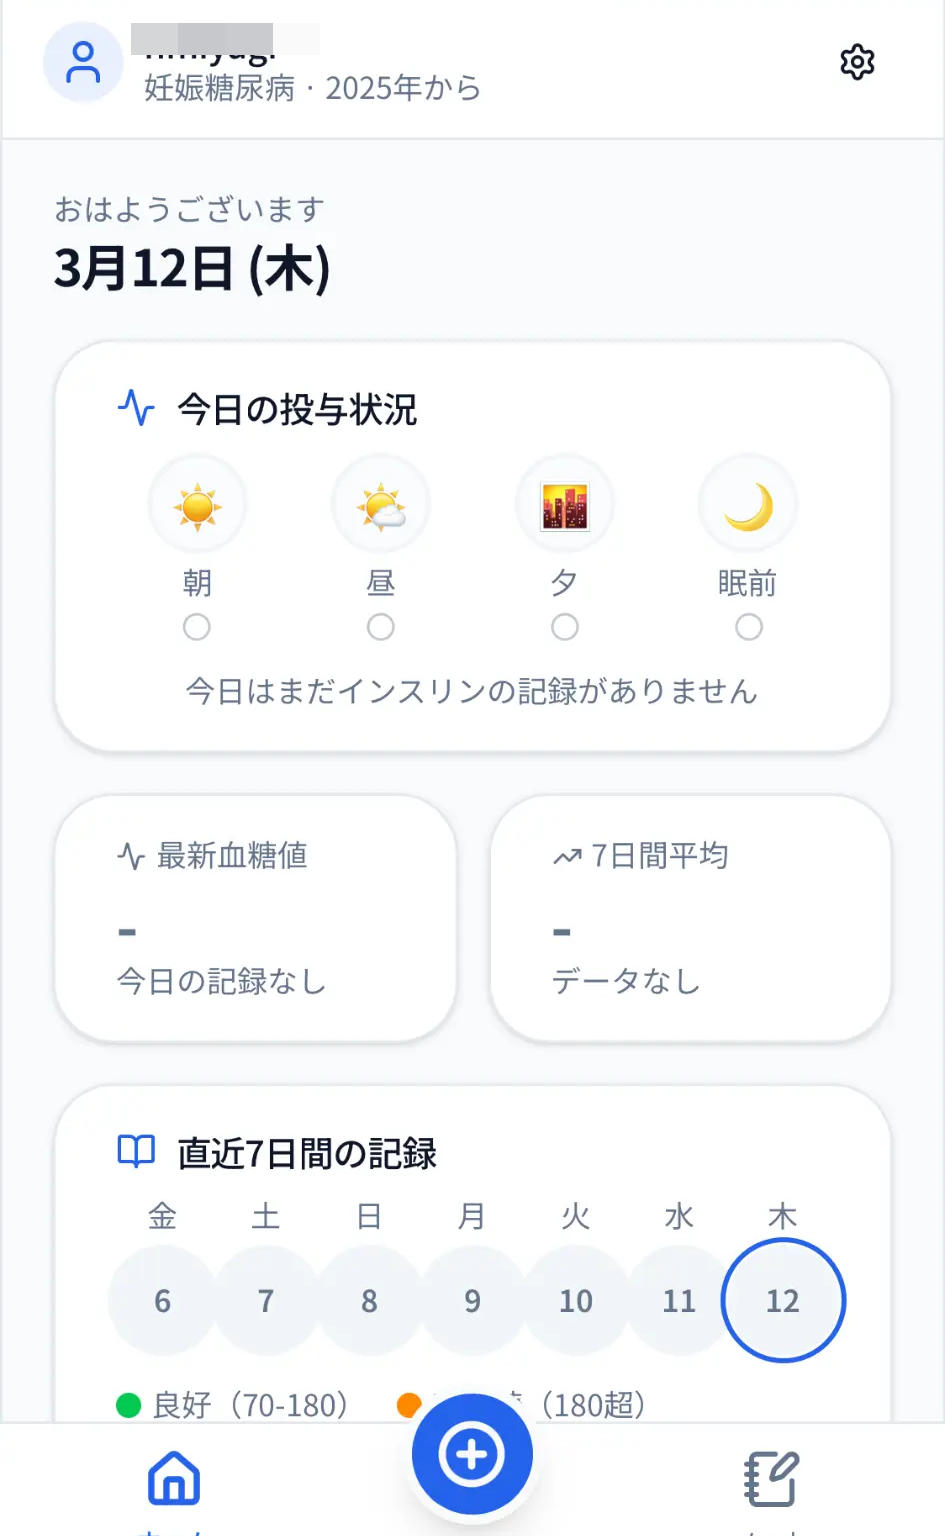
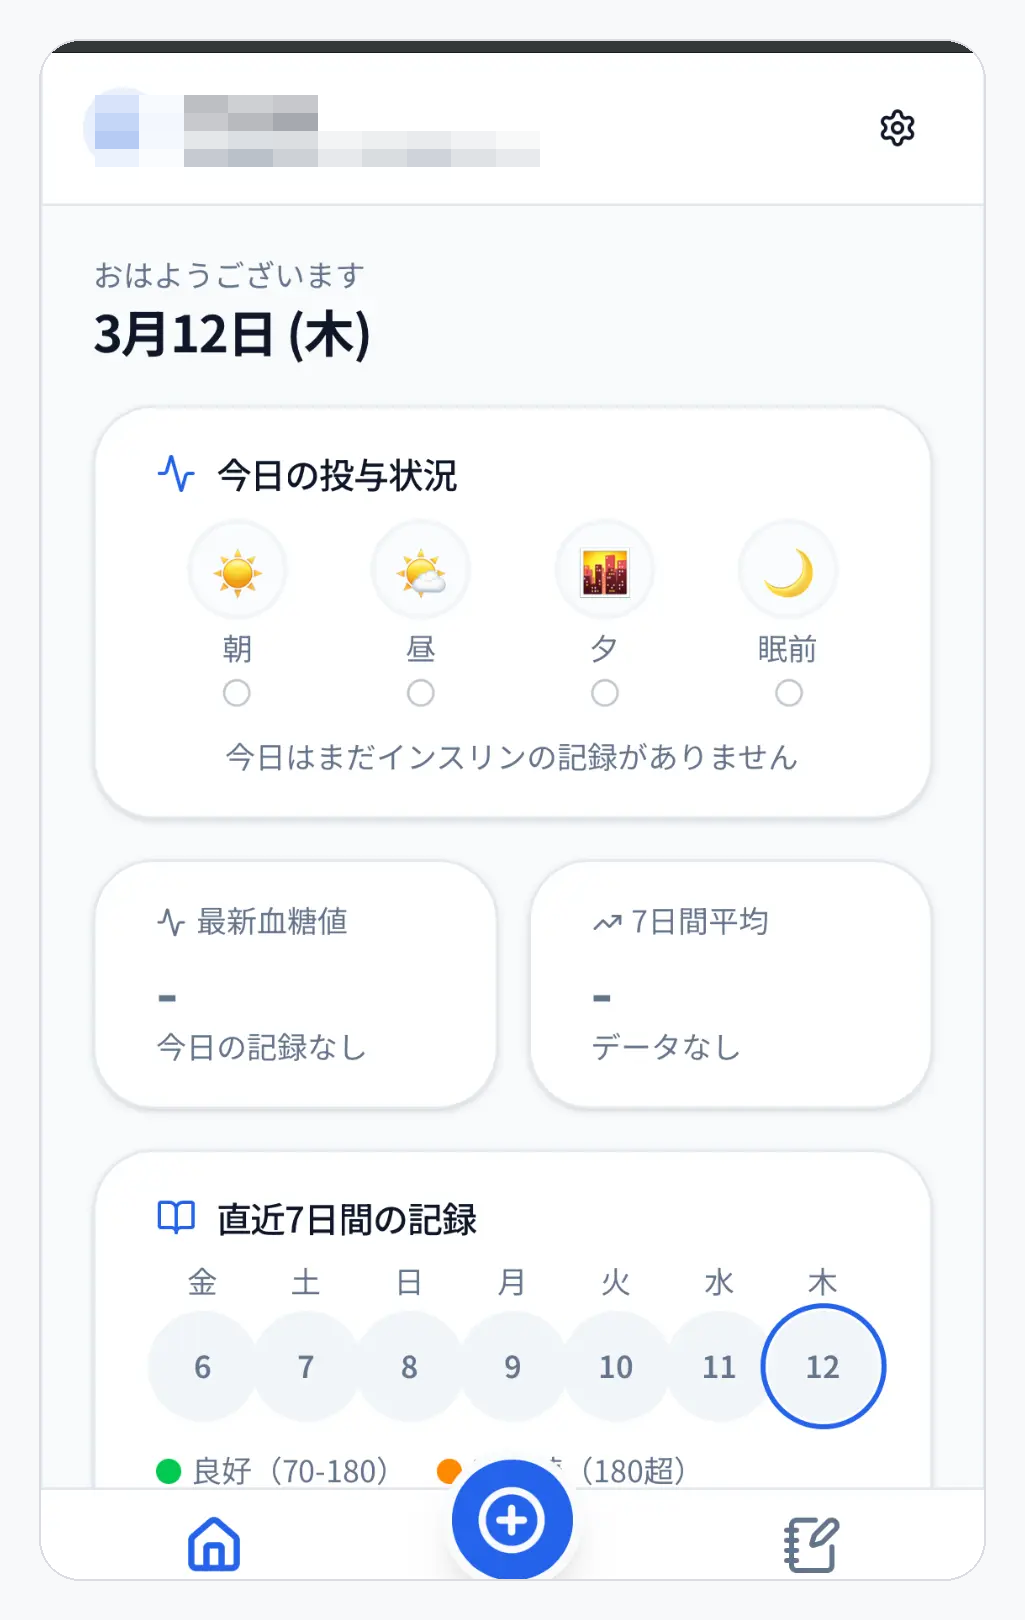
fix: 「妻」→「パートナー」置き換え、スクリーンショット画像に余白・角丸フレーム追加・全体表示に改善

diff --git a/client/src/pages/LandingPage.tsx b/client/src/pages/LandingPage.tsx
@@ -848,8 +848,8 @@ export default function LandingPage() {
                 transition={{ duration: 0.2 }}
                 className="bg-green-50 dark:bg-green-950/20 rounded-3xl overflow-hidden flex flex-col h-full cursor-default"
               >
-                <div className="relative overflow-hidden" style={{ height: '320px' }}>
-                  <img src="/images/screenshot-dashboard.png" alt="ダッシュボード" className="w-full h-auto" style={{ marginTop: '-52px' }} />
+                <div className="flex items-center justify-center px-4 pt-5 pb-2" style={{ background: 'inherit' }}>
+                  <img src="/images/screenshot-dashboard.png" alt="ダッシュボード" className="w-full max-w-[220px] h-auto object-contain rounded-2xl shadow-md" />
                 </div>
                 <div className="p-6 flex flex-col gap-3">
                   <div className="w-10 h-10 rounded-2xl bg-white/70 flex items-center justify-center">
@@ -870,8 +870,8 @@ export default function LandingPage() {
                 transition={{ duration: 0.2 }}
                 className="bg-blue-50 dark:bg-blue-950/20 rounded-3xl overflow-hidden flex flex-col h-full cursor-default"
               >
-                <div className="relative overflow-hidden" style={{ height: '320px' }}>
-                  <img src="/images/screenshot-logbook.png" alt="記録ノート" className="w-full h-auto" style={{ marginTop: '-52px' }} />
+                <div className="flex items-center justify-center px-4 pt-5 pb-2" style={{ background: 'inherit' }}>
+                  <img src="/images/screenshot-logbook.png" alt="記録ノート" className="w-full max-w-[220px] h-auto object-contain rounded-2xl shadow-md" />
                 </div>
                 <div className="p-6 flex flex-col gap-3">
                   <div className="w-10 h-10 rounded-2xl bg-white/70 flex items-center justify-center">
@@ -892,8 +892,8 @@ export default function LandingPage() {
                 transition={{ duration: 0.2 }}
                 className="bg-orange-50 dark:bg-orange-950/20 rounded-3xl overflow-hidden flex flex-col h-full cursor-default"
               >
-                <div className="relative overflow-hidden" style={{ height: '320px' }}>
-                  <img src="/images/screenshot-adjustment-rules.png" alt="調整ルール設定" className="w-full h-auto" style={{ marginTop: '-52px' }} />
+                <div className="flex items-center justify-center px-4 pt-5 pb-2" style={{ background: 'inherit' }}>
+                  <img src="/images/screenshot-adjustment-rules.png" alt="調整ルール設定" className="w-full max-w-[220px] h-auto object-contain rounded-2xl shadow-md" />
                 </div>
                 <div className="p-6 flex flex-col gap-3">
                   <div className="w-10 h-10 rounded-2xl bg-white/70 flex items-center justify-center">
@@ -990,7 +990,7 @@ export default function LandingPage() {
 
                 {/* 見出し */}
                 <h2 className="text-3xl sm:text-4xl lg:text-5xl font-bold text-white leading-[1.2] tracking-tight">
-                  妻が妊娠糖尿病と<br />
+                  パートナーが妊娠糖尿病と<br />
                   診断されたとき、<br />
                   <span className="text-transparent bg-clip-text bg-gradient-to-r from-blue-300 to-cyan-300">
                     すべてがアナログだった。
@@ -1000,7 +1000,7 @@ export default function LandingPage() {
                 {/* 本文 */}
                 <div className="space-y-4 text-white/70 leading-relaxed text-base sm:text-lg">
                   <p>
-                    妻が妊娠糖尿病と診断され、初めてインスリンを手渡されました。
+                    パートナーが妊娠糖尿病と診断され、初めてインスリンを手渡されました。
                     そのとき管理ツールとして渡されたのは、
                     <strong className="text-white">1冊のノート</strong>だけでした。
                   </p>
@@ -1028,7 +1028,7 @@ export default function LandingPage() {
                   </div>
                   <div>
                     <p className="text-white font-semibold text-sm">インスリア 開発者より</p>
-                    <p className="text-white/40 text-xs mt-0.5">妻の妊娠糖尿病をきっかけに開発</p>
+                    <p className="text-white/40 text-xs mt-0.5">パートナーの妊娠糖尿病をきっかけに開発</p>
                   </div>
                 </div>
               </div>
